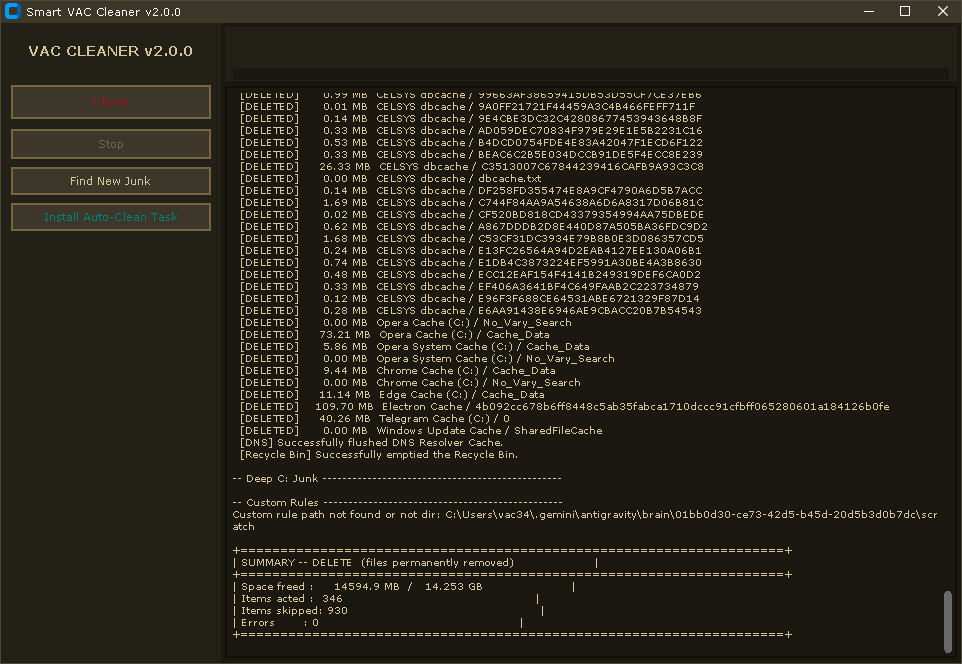
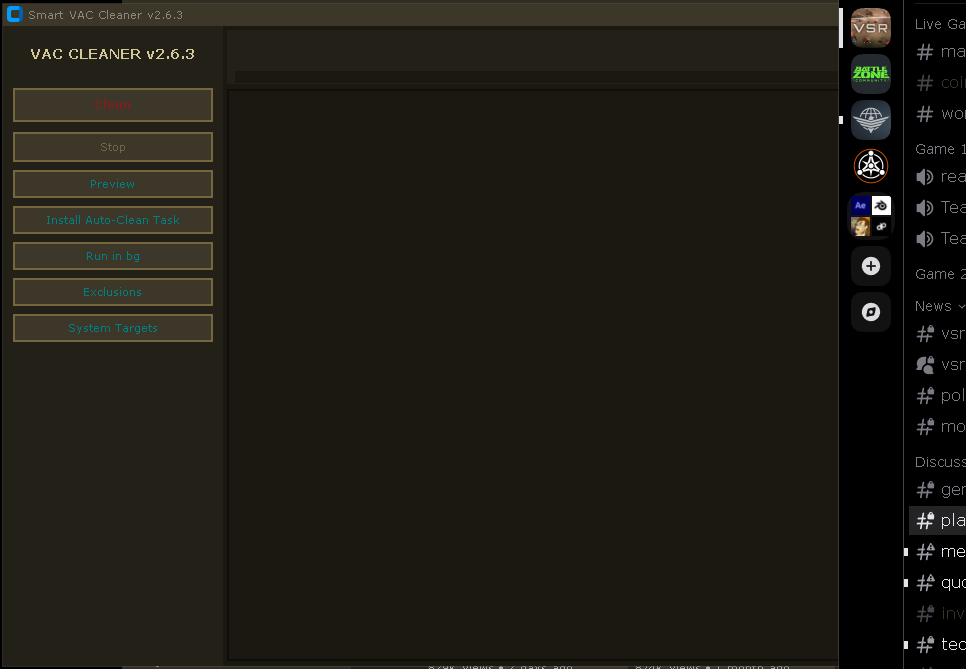
docs: README/screenshot seven-button GUI doc fix (T-109)

diff --git a/_SMART_VAC_CLEANER.py b/_SMART_VAC_CLEANER.py
@@ -58,7 +58,7 @@ import customtkinter as ctk
 
 
 
-VERSION = "2.6.3"
+VERSION = "2.6.4"
 
 DEFAULT_THREADS = 12
 

diff --git a/README.ru.md b/README.ru.md
@@ -68,10 +68,13 @@ powershell -ExecutionPolicy Bypass -File build_exe.ps1
 python _SMART_VAC_CLEANER.py
 ```
 
-Пять кнопок: **Очистить** (реальное удаление — сначала спрашивает
-подтверждение), **Стоп**, **Установить задачу автоочистки**, **Запуск в фоне**
+Семь кнопок: **Очистить** (реальное удаление — сначала спрашивает
+подтверждение), **Стоп**, **Предпросмотр** (полностью read-only, показывает, что
+будет удалено), **Установить задачу автоочистки**, **Запуск в фоне**
 (запускает отдельную скрытую полную очистку в фоне), **Исключения**
-(правка списков никогда-не-удалять: шаблоны и пути). Прогресс-бары по категориям,
+(правка списков никогда-не-удалять: шаблоны и пути), **Системные цели**
+(включение рискованных целей — Корзина, кэш DNS, кэш Windows Update; выбор
+сохраняется в конфиге). Прогресс-бары по категориям,
 полное окно лога; каждый запуск также попадает в `logs\clean_*.log`.
 
 ## CLI
@@ -164,4 +167,4 @@ python -m pytest -q
 - Установка задачи Планировщика требует прав администратора (`/rl HIGHEST`).
 - Портативные корни на несистемных дисках чистятся и без админа (схема VAC).
 - Проект не аффилирован ни с одним вендором; все пути — известные кэш/лог-каталоги приложений, которые они пересоздают.
-<!-- source-digest: README.md sha256:bb86d5bfbdce58a9 -->
+<!-- source-digest: README.md sha256:a15dfad98946adc2 -->

diff --git a/README.ded.md b/README.ded.md
@@ -64,7 +64,7 @@ powershell -ExecutionPolicy Bypass -File build_exe.ps1
 python _SMART_VAC_CLEANER.py
 ```
 
-Пять кнопок: **Снести нахер** (снесёт реально — сначала спросит), **Тормози**, **Вшить автозапуск**, **В фон** (запустит тихую зачистку без окон) и **Не трогать** (твои исключения). Прогресс-бары, логи. Все запуски пишутся в `logs\clean_*.log`.
+Семь кнопок: **Снести нахер** (снесёт реально — сначала спросит), **Тормози**, **Глянь сперва** (полностью read-only, покажет, что снесёт), **Вшить автозапуск**, **В фон** (запустит тихую зачистку без окон), **Не трогать** (твои исключения) и **Системные цели** (включить рискованное — Корзину, кэш DNS, кэш Windows Update; выбор помнится в конфиге). Прогресс-бары, логи. Все запуски пишутся в `logs\clean_*.log`.
 
 ## Консоль (CLI)
 
@@ -154,4 +154,4 @@ python -m pytest -q
 - Для планировщика нужны права админа (`/rl HIGHEST`).
 - Портабельные папки на других дисках чистятся и без админа (схема VAC).
 - Утилита не от вендоров; пути собраны руками, проги сами их пересоздадут.
-<!-- source-digest: README.md sha256:bb86d5bfbdce58a9 -->
+<!-- source-digest: README.md sha256:a15dfad98946adc2 -->

diff --git a/README.et.md b/README.et.md
@@ -68,10 +68,13 @@ peale ehitab CI exe ja laeb selle artefaktina automaatselt üles.
 python _SMART_VAC_CLEANER.py
 ```
 
-Viis nuppu: **Puhasta** (päris kustutamine — küsib eelnevalt kinnitust),
-**Peata**, **Paigalda autopuhastuse ülesanne**, **Käivita taustal** (käivitab
+Seitse nuppu: **Puhasta** (päris kustutamine — küsib eelnevalt kinnitust),
+**Peata**, **Eelvaade** (täielikult read-only, näitab, mis kustutataks),
+**Paigalda autopuhastuse ülesanne**, **Käivita taustal** (käivitab
 eraldiseisva peidetud täispuhastuse taustal), **Välistused** (ära-kustuta
-mustrite ja teede muutmine). Progressiribad kategooriate kaupa, täielik
+mustrite ja teede muutmine), **Süsteemi sihtmärgid** (riskantsete sihtmärkide
+sisse lülitamine — Prügikast, DNS-i vahemälu, Windows Update'i vahemälu; valik
+salvestatakse konfigi). Progressiribad kategooriate kaupa, täielik
 logiakken; iga käivitus jõuab ka `logs\clean_*.log` faili.
 
 ## CLI
@@ -164,4 +167,4 @@ Töötab võrguühenduseta, puudutab ainult ajutisi katalooge.
 - Tegumihalduri ülesande paigaldamine nõuab administraatori õigusi (`/rl HIGHEST`).
 - Kaasaskantavad juured mittesüsteemsetel ketastel puhastatakse ka ilma adminita (VAC-skeem).
 - Projekt pole seotud ühegi müüjaga; kõik teed on tuntud vahemälu/logikataloogid, mida rakendused taastavad.
-<!-- source-digest: README.md sha256:bb86d5bfbdce58a9 -->
+<!-- source-digest: README.md sha256:a15dfad98946adc2 -->

diff --git a/CHANGELOG.md b/CHANGELOG.md
@@ -1,5 +1,8 @@
 # Changelog
 
+## v2.6.4
+- **README/screenshot doc-drift fix (T-109)**: GUI docs updated from "five buttons" to seven -- the sidebar's *Preview* (read-only dry-run, T-107) and *System Targets* (risky-target opt-in, T-105) buttons were missing from the README and its translations. README.md/ru/et/ded rewritten, screenshot regenerated from the live build, translation package refreshed (ee). 179 tests green, ruff clean.
+
 ## v2.6.3
 - **Persistent per-target preferences (T-108)**: the System Targets dialog now saves your choices to the config file (`system_targets` key), so your opt-in for Recycle Bin / DNS / Windows Update survives restarts. Unknown target names in a hand-edited config are rejected on load; safe defaults are unchanged. The plain CLI path keeps the P1-7 guarantee -- `--all` never enables risky targets silently; persisted opt-ins reach scheduled/background runs through the explicit `--sys-targets` embedded in the task (v2.6.1). 179 tests green, ruff clean.
 

diff --git a/README.md b/README.md
@@ -74,10 +74,13 @@ Produces `dist\SmartVACCleaner.exe` (PyInstaller onefile). On every
 python _SMART_VAC_CLEANER.py
 ```
 
-Five buttons: **Clean** (real delete — asks for confirmation first), **Stop**,
-**Install Auto-Clean Task**, **Run in bg** (starts a detached silent full clean
-in the background), **Exclusions** (edit never-delete patterns and
-paths). Progress bars per category, full log window; every run also lands in
+Seven buttons: **Clean** (real delete — asks for confirmation first), **Stop**,
+**Preview** (a physically read-only dry-run of what would be deleted), **Install
+Auto-Clean Task**, **Run in bg** (starts a detached silent full clean in the
+background), **Exclusions** (edit never-delete patterns and paths), **System
+Targets** (opt into risky targets — Recycle Bin, DNS cache, Windows Update
+cache; persisted in the config). Progress bars per category, full log window;
+every run also lands in
 `logs\clean_*.log`.
 
 ## CLI
